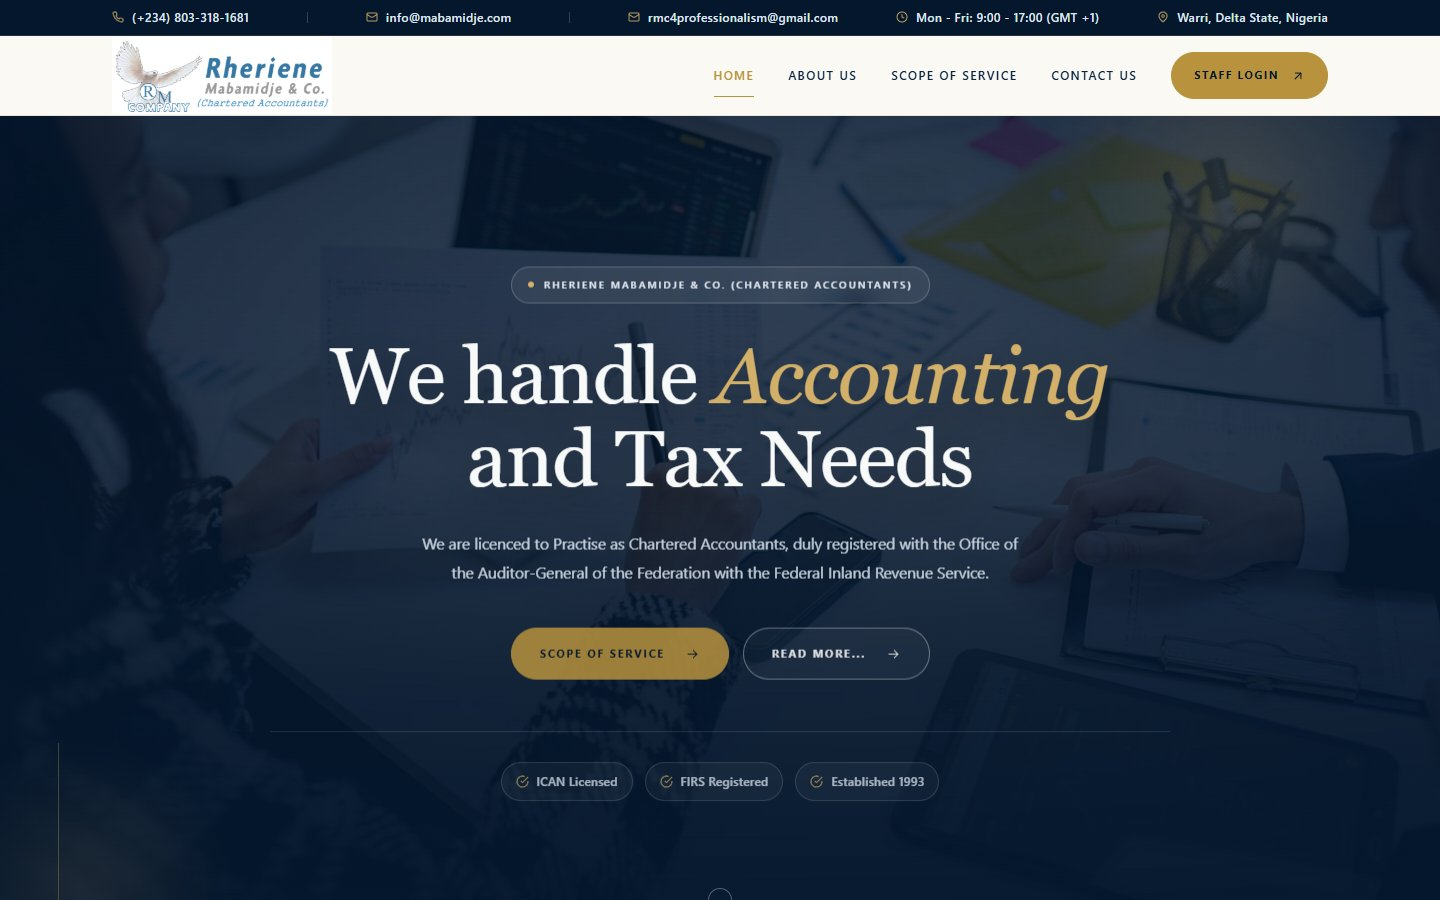
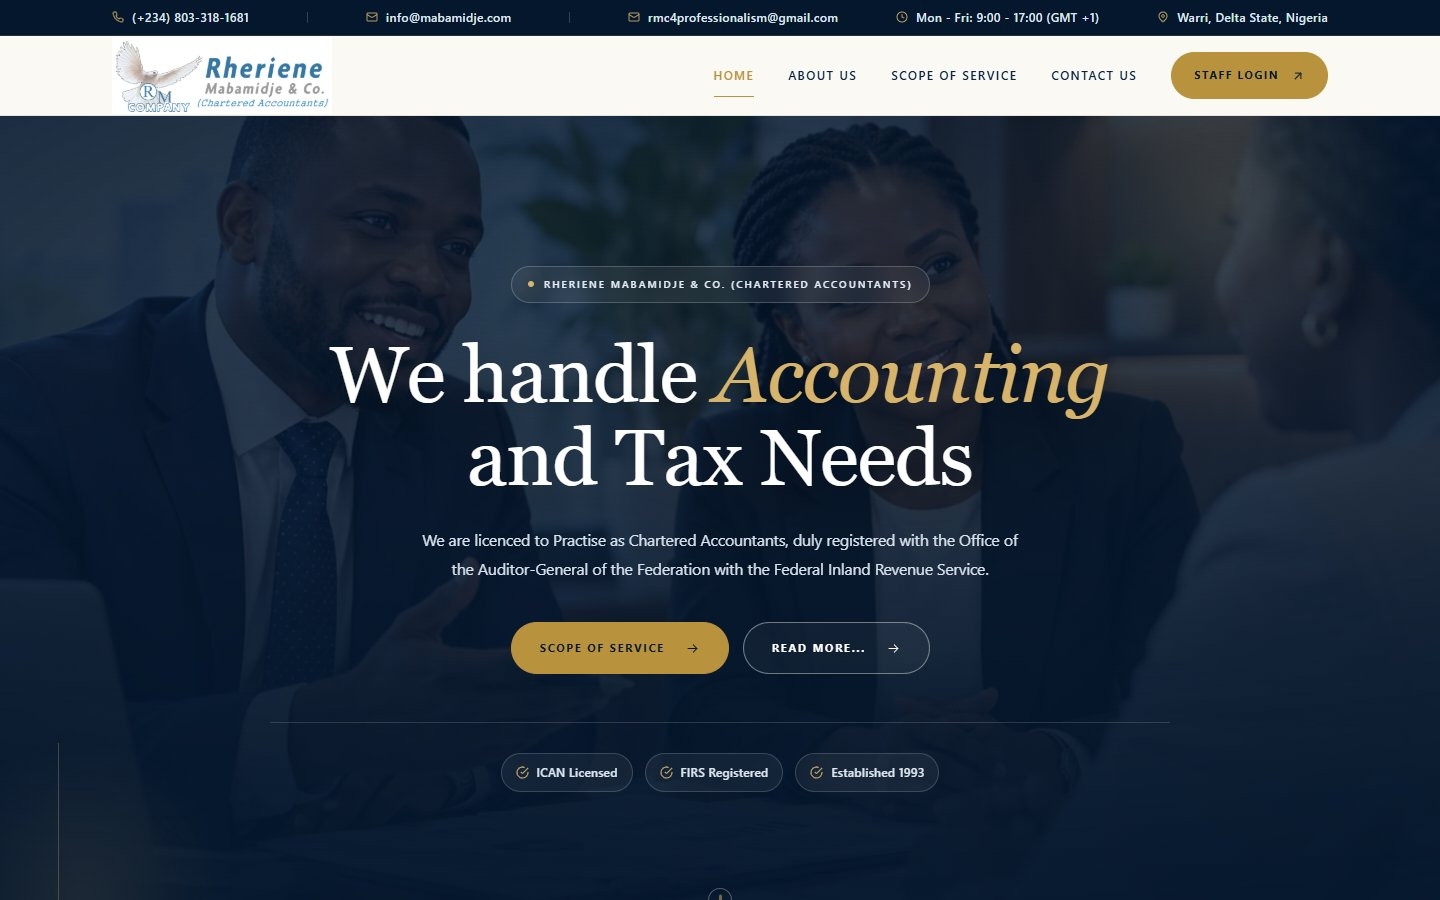
changed photos

diff --git a/tools/v1-image-review.html b/tools/v1-image-review.html
@@ -1,0 +1,1 @@
+<body style="margin:0;display:grid;grid-template-columns:repeat(4,1fr);font:14px sans-serif"><div><img style="width:240px;height:160px;object-fit:cover" src="../v1/assets/img/audit.webp"><p>audit.webp</p></div><div><img style="width:240px;height:160px;object-fit:cover" src="../v1/assets/img/collaboration.webp"><p>collaboration.webp</p></div><div><img style="width:240px;height:160px;object-fit:cover" src="../v1/assets/img/desk.webp"><p>desk.webp</p></div><div><img style="width:240px;height:160px;object-fit:cover" src="../v1/assets/img/firm.webp"><p>firm.webp</p></div><div><img style="width:240px;height:160px;object-fit:cover" src="../v1/assets/img/partner.webp"><p>partner.webp</p></div><div><img style="width:240px;height:160px;object-fit:cover" src="../v1/assets/img/portrait.webp"><p>portrait.webp</p></div><div><img style="width:240px;height:160px;object-fit:cover" src="../v1/assets/img/port1.jpg"><p>port1.jpg</p></div><div><img style="width:240px;height:160px;object-fit:cover" src="../v1/assets/img/port2.jpg"><p>port2.jpg</p></div><div><img style="width:240px;height:160px;object-fit:cover" src="../v1/assets/img/port3.jpg"><p>port3.jpg</p></div><div><img style="width:240px;height:160px;object-fit:cover" src="../v1/assets/img/port4.jpg"><p>port4.jpg</p></div><div><img style="width:240px;height:160px;object-fit:cover" src="../v1/assets/img/port5.jpg"><p>port5.jpg</p></div><div><img style="width:240px;height:160px;object-fit:cover" src="../v1/assets/img/team-meeting.webp"><p>team-meeting.webp</p></div><div><img style="width:240px;height:160px;object-fit:cover" src="../v1/assets/img/reception.webp"><p>reception.webp</p></div><div><img style="width:240px;height:160px;object-fit:cover" src="../v1/assets/img/full-team.webp"><p>full-team.webp</p></div><div><img style="width:240px;height:160px;object-fit:cover" src="../v1/assets/img/managing-partner.webp"><p>managing-partner.webp</p></div>

diff --git a/v1/assets/css/style.css b/v1/assets/css/style.css
@@ -528,15 +528,15 @@ input:focus-visible {
   will-change: opacity, transform;
 }
 .hero-slide-1 {
-  background-image: url("../img/hero-meeting.jpg");
+  background-image: url("../img/collaboration.webp");
   animation-delay: 0s;
 }
 .hero-slide-2 {
-  background-image: url("../img/hero-office.jpg");
+  background-image: url("../img/desk.webp");
   animation-delay: 8s;
 }
 .hero-slide-3 {
-  background-image: url("../img/hero-charts.jpg");
+  background-image: url("../img/audit.webp");
   animation-delay: 16s;
 }
 @keyframes heroCycle {
@@ -1735,7 +1735,7 @@ input:focus-visible {
   overflow: hidden;
   isolation: isolate;
   background: var(--navy-deep)
-    url("../img/services-hero.jpg") center 45% / cover no-repeat;
+    url("../img/audit.webp") center 45% / cover no-repeat;
   padding: clamp(56px, 7vw, 92px) 0;
   color: white;
   border-radius: clamp(22px, 3vw, 42px) clamp(22px, 3vw, 42px) 0 0;

diff --git a/v1/contact.html b/v1/contact.html
@@ -210,7 +210,7 @@
       <section class="page-hero">
         <img
           class="page-photo"
-          src="assets/img/contact-hero.jpg"
+          src="assets/img/desk.webp"
           alt=""
           aria-hidden="true"
         />
@@ -240,8 +240,8 @@
           <div class="contact-grid">
             <div class="contact-visual reveal">
               <img
-                src="assets/img/reception.webp"
-                alt="Rheriene Mabamidje & Co. reception"
+                src="assets/img/desk.webp"
+                alt="Professional office workspace"
                 loading="lazy"
               />
             </div>

diff --git a/v1/index.html b/v1/index.html
@@ -520,13 +520,13 @@
             <div class="gold-square"></div>
             <img
               class="meeting"
-              src="assets/img/team-meeting.webp"
+              src="assets/img/collaboration.webp"
               alt="Professional team discussing accounting work"
               loading="lazy"
             /><img
               class="detail-img"
-              src="assets/img/reception.webp"
-              alt="Reception staff"
+              src="assets/img/desk.webp"
+              alt="Accounting documents and office workspace"
               loading="lazy"
             />
           </div>

diff --git a/v1/services.html b/v1/services.html
@@ -211,7 +211,7 @@
       <section class="page-hero">
         <img
           class="page-photo"
-          src="assets/img/services-hero.jpg"
+          src="assets/img/audit.webp"
           alt=""
           aria-hidden="true"
         />
@@ -540,7 +540,7 @@
       <section class="service-split">
         <div class="service-split-photo">
           <img
-            src="assets/img/team-meeting.webp"
+            src="assets/img/collaboration.webp"
             alt="Rheriene Mabamidje & Co. professionals"
             loading="lazy"
           />

diff --git a/v1/about.html b/v1/about.html
@@ -207,7 +207,7 @@
       <section class="page-hero">
         <img
           class="page-photo"
-          src="assets/img/about-hero.jpg"
+          src="assets/img/firm.webp"
           alt=""
           aria-hidden="true"
         />
@@ -252,7 +252,7 @@
           </div>
           <div class="about-feature-photo reveal">
             <img
-              src="assets/img/full-team.webp"
+              src="assets/img/firm.webp"
               alt="Rheriene Mabamidje & Co. team"
               loading="lazy"
             />

diff --git a/v1/login.html b/v1/login.html
@@ -47,7 +47,7 @@
           </ul>
         </div>
         <div class="login-photo-card">
-          <img src="assets/img/full-team.webp" alt="The Rheriene Mabamidje &amp; Co. team" />
+          <img src="assets/img/firm.webp" alt="The Rheriene Mabamidje &amp; Co. team" />
           <div class="login-photo-caption"><span>People behind the practice</span><strong>Rheriene Mabamidje &amp; Co.</strong></div>
         </div>
         <div class="login-foot">
